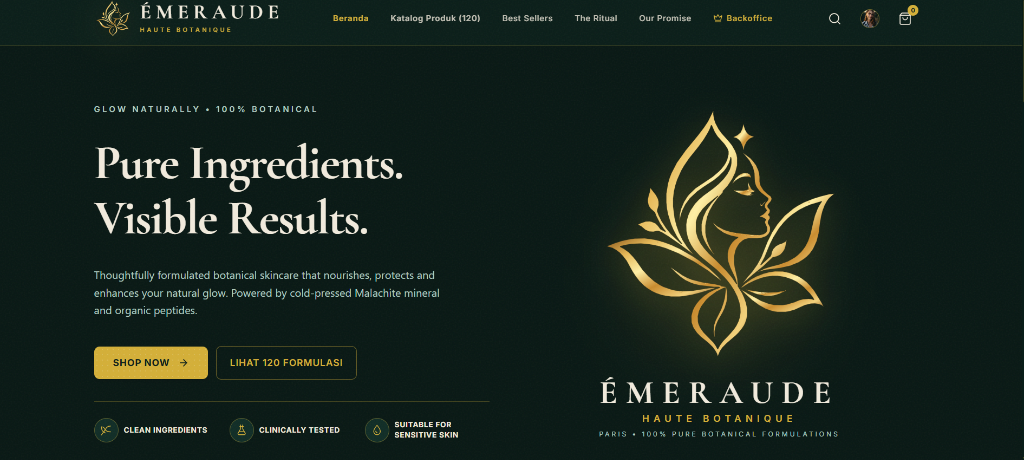
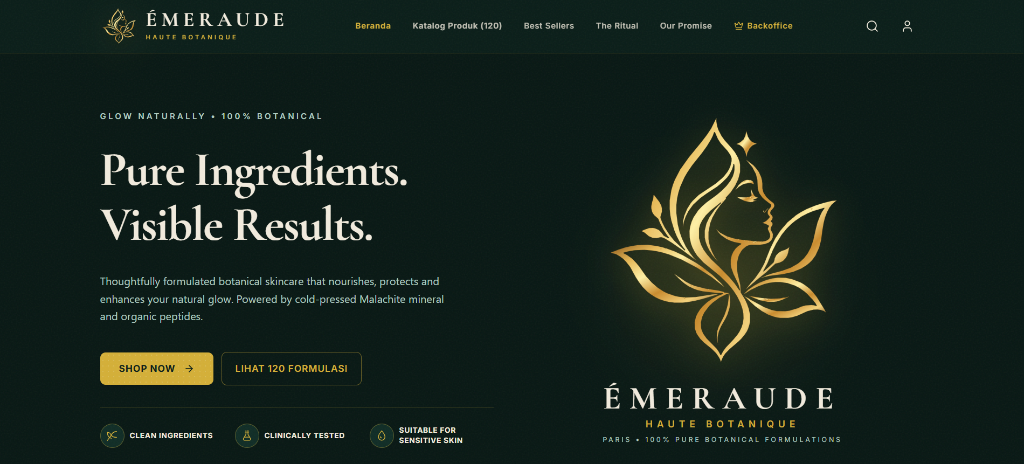
chore: remove (120) count from navbar and update hero preview screenshot in README

diff --git a/src/components/common/Header.tsx b/src/components/common/Header.tsx
@@ -78,7 +78,7 @@ export const Header: React.FC = () => {
                 : 'font-semibold'
             }`}
           >
-            Katalog Produk (120)
+            Katalog Produk
           </button>
           <button
             onClick={() => scrollToHomeSection('best-sellers-section')}
